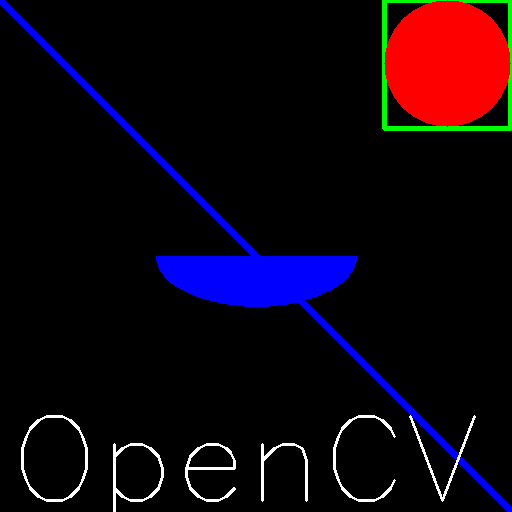
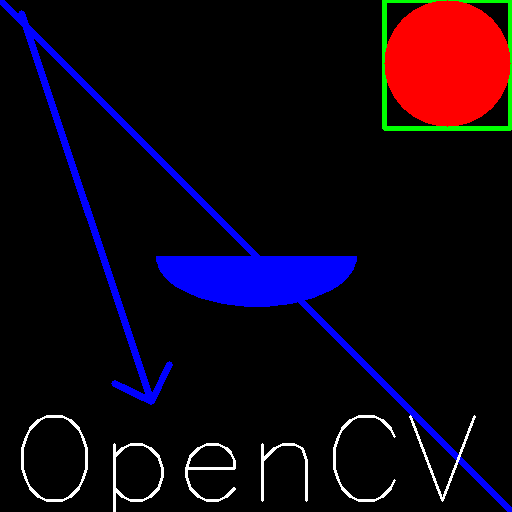
animation draw

Changed region(s): [[0.0312, 0.0, 0.3438, 0.8125]]

diff --git a/ch25-Hough直线变换/LineSegmentDetector1.py b/ch25-Hough直线变换/LineSegmentDetector1.py
@@ -13,6 +13,7 @@ import numpy as np
 # Read gray image
 img0 = cv2.imread("pokerQ.jpg")
 img = cv2.cvtColor(img0,cv2.COLOR_BGR2GRAY)
+cv2.imshow('pokerQ',img0)
 
 # Create default parametrization LSD
 lsd = cv2.createLineSegmentDetector(0)
@@ -25,6 +26,7 @@ lines = lsd.detect(img)[0]  # Position 0 of the returned tuple are the detected 
 # drawn_img = lsd.drawSegments(img, lines)
 
 #
+cv2.waitKey(0)
 for dline in dlines[0]:
     x0 = int(round(dline[0][0]))
     y0 = int(round(dline[0][1]))
@@ -32,11 +34,12 @@ for dline in dlines[0]:
     y1 = int(round(dline[0][3]))
     cv2.line(img0, (x0, y0), (x1,y1), (0,255,0), 1, cv2.LINE_AA)
     cv2.imshow("LSD", img0)
-    cv2.waitKey(1000)
+    cv2.waitKey(200)
 
 #TODO 最长的直线？
 
 # Show image
 # cv2.imshow("LSD", drawn_img)
 # cv2.imshow("LSD", img0)
-cv2.waitKey(0)
+# cv2.waitKey(0)
+cv2.destroyAllWindows()

diff --git a/ch06-绘图函数/6.draw.py b/ch06-绘图函数/6.draw.py
@@ -20,6 +20,7 @@ img = np.zeros((512, 512, 3), np.uint8)
 cv2.line(img, pt1=(0, 0), pt2=(511, 511), color=(255, 0, 0), thickness=5)  # pt1, pt2, color, thickness=
 # cv2.polylines() 可以 用来画很多条线。只需要把想 画的线放在一 个列表中， 将 列表传给函数就可以了。每条线 会被独立绘制。 这会比用 cv2.line() 一条一条的绘制 要快一些。
 # cv2.polylines(img, pts, isClosed, color, thickness=None, lineType=None, shift=None)
+cv2.arrowedLine(img,pt1=(21, 13), pt2=(151, 401), color=(255, 0, 0), thickness=5)
 
 cv2.rectangle(img, (384, 0), (510, 128), (0, 255, 0), 3)
 
